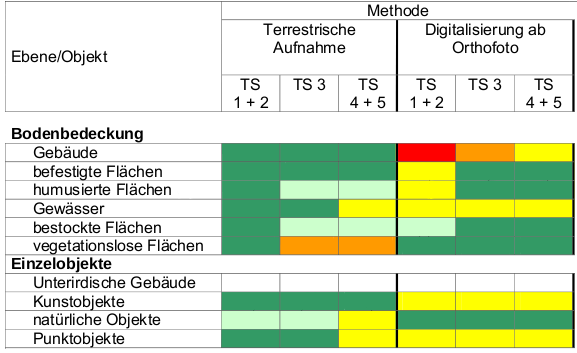
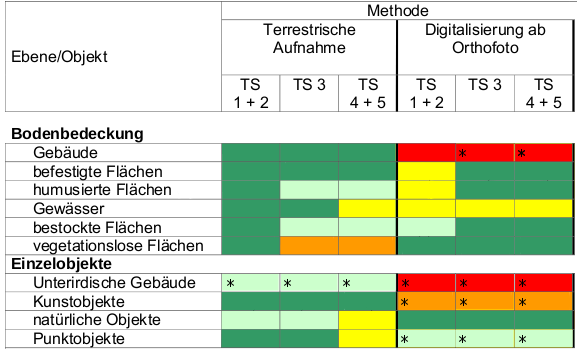
Korrektur gemäss TK

Changed region(s): [[0.3744, 0.779, 0.9983, 0.9037], [0.6863, 0.9348, 0.9983, 0.9972], [0.7799, 0.4051, 0.9983, 0.4674]]

diff --git a/source/bahn.rst b/source/bahn.rst
@@ -36,16 +36,16 @@ Wird eine Lagedifferenz zwischen der AV und dem aktuellen Orthofoto grösser als
 Beispiele:
 
 
-+-----------------------------------------------------------------------+-------------------------------------------------------------------------+
-|.. _bahn_bahn_Lagedifferenz:                                           |.. _bahn_bahn_Lagedifferenz_korr:                                        |
-|                                                                       |                                                                         |
-|.. figure:: _static/bahn_bahn_Lagedifferenz.png                        |.. figure:: _static/bahn_bahn_Lagedifferenz_korr.png                     |
-|   :width: 550px                                                       |   :width: 550px                                                         |
-|   :target: _static/bahn_bahn_Lagedifferenz.png                        |   :target: _static/bahn_bahn_Lagedifferenz_korr.png                     |
-|                                                                       |                                                                         |
-|   ``BB.Bahn`` ist zu korrigieren, weil die Lagedifferenz              |   ``BB.Bahn`` ist  gemäss den rot dargestellten Linien zu               |
-|   grösser als die Toleranz (TS2: 1.0m) ist.                           |   korrigieren. Die Böschung ist als``BB.übrige_humusierte`` zu erfassen.|
-+-----------------------------------------------------------------------+-------------------------------------------------------------------------+
++-----------------------------------------------------------------------+--------------------------------------------------------------------------+
+|.. _bahn_bahn_Lagedifferenz:                                           |.. _bahn_bahn_Lagedifferenz_korr:                                         |
+|                                                                       |                                                                          |
+|.. figure:: _static/bahn_bahn_Lagedifferenz.png                        |.. figure:: _static/bahn_bahn_Lagedifferenz_korr.png                      |
+|   :width: 550px                                                       |   :width: 550px                                                          |
+|   :target: _static/bahn_bahn_Lagedifferenz.png                        |   :target: _static/bahn_bahn_Lagedifferenz_korr.png                      |
+|                                                                       |                                                                          |
+|   ``BB.Bahn`` ist zu korrigieren, weil die Lagedifferenz              |   ``BB.Bahn`` ist  gemäss den rot dargestellten Linien zu                |
+|   grösser als die Toleranz (TS2: 1.0m) ist.                           |   korrigieren. Die Böschung ist als ``BB.übrige_humusierte`` zu erfassen.|
++-----------------------------------------------------------------------+--------------------------------------------------------------------------+
 
                                                                                                                                                                                        
 
@@ -110,7 +110,7 @@ EO.Bahngeleise
 --------------
 Lagedifferenz  
 ^^^^^^^^^^^^^   
-Wird eine Lagedifferenz zwischen der AV und den SBB-Daten detektiert, so ist das Objekt in der AV zu korrigieren. ???? Muss Toleranz (hier ungleich :ref:`ref_Tz`) quantifiziert werden? Z.B. liegt ausserhalb der dickeren blauen Linie (SBB-Datensatz) in QGIS?
+Wird eine Lagedifferenz > 20 cm zwischen der AV und den SBB-Daten detektiert, so ist das Objekt in der AV zu korrigieren.  
 
 Benötigende Layer im QGIS:
 
@@ -157,22 +157,11 @@ Benötigende Layer im QGIS:
 
 EO.Bahngeleise_ueberdeckt
 -------------------------
-Lagedifferenz  
-^^^^^^^^^^^^^ 
-Wird eine Lagedifferenz zwischen der AV und den SBB-Daten detektiert, so ist das Objekt in der AV zu korrigieren. ???? Muss Toleranz (hier ungleich :ref:`ref_Tz`) quantifiziert werden? Z.B. liegt ausserhalb der dickeren blauen Linie (SBB-Datensatz) in QGIS? 
+ 
 
-Benötigende Layer im QGIS:
-
-.. code-block:: none
-
-    Bahn / Lagekontrolle   
-    
-.. note::
-  Als Referenzdaten dienen die Daten der SBB    
-
-Objekt fehlt/löschen/umattribuieren
+Objekt löschen/umattribuieren
 ^^^^^^^^^^^^^^^^^^^^^^^^^^^^^^^^^^^
-Fehlende Objekte sind von den SBB-Daten zu übernehmen und nicht mehr vorhandene Bahngeleise sind zu löschen. Bahngeleise nicht im Tunnel sind als ``EO.Bahngeleise`` zu attribuieren.
+Die Einzelobjektart ``EO.Bahngeleise_ueberdeckt`` wird nicht mehr geführt. Vorhandene Objekte sind zu löschen oder als ``EO.Bahngeleise`` zu attribuieren.
 
 Benötigende Layer im QGIS:
 
@@ -180,16 +169,5 @@ Benötigende Layer im QGIS:
 
     Bahn / Lagekontrolle   
 
-Darstellung nicht nach Richtlinie  
-^^^^^^^^^^^^^^^^^^^^^^^^^^^^^^^^^     
-``EO.Bahngeleise`` ist ein Linienelement.
-
-Benötigende Layer im QGIS:
-
-.. code-block:: none
-
-    Bahn / Lagekontrolle   
-
-|
 
                                                                     

diff --git a/source/strasse.rst b/source/strasse.rst
@@ -32,7 +32,7 @@ BB.Strasse_Weg
 Lagedifferenz  
 ^^^^^^^^^^^^^                        
                          
-Wird eine Lagedifferenz zwischen der AV und dem aktuellen Orthofoto grösser als die Toleranz (siehe :ref:`ref_Tz`) festgestellt, so ist das Objekt in der AV zu korrigieren. Liegt die Differenz innerhalb der Toleranzwerte, wird das Objekt nicht angepasst. Ist die Lagekontrolle mit dem Orthofoto auf Grund von Interpretationsschwierigkeiten (z.B. durch Schatten oder Sichthindernisse wie Bäume) nicht möglich, kann eine Feldkontrolle sinnvoll sein. 
+Wird eine Lagedifferenz zwischen der AV und dem aktuellen Orthofoto grösser als die Toleranz (siehe :ref:`ref_Tz`) festgestellt, so ist das Objekt in der AV zu korrigieren. Liegt die Differenz innerhalb der Toleranzwerte, wird das Objekt nicht angepasst. Ist die Lagekontrolle mit dem Orthofoto auf Grund von Interpretationsschwierigkeiten (z.B. durch Schatten oder Sichthindernisse wie Bäume) nicht möglich, ist eine Feldkontrolle sinnvoll. 
 
 Benötigte Layer in QGIS:
 
@@ -241,7 +241,7 @@ Benötigte Layer in QGIS:
 Darstellung nicht nach Richtlinie    
 ^^^^^^^^^^^^^^^^^^^^^^^^^^^^^^^^^                                        
 
-???? Bei Strasseneinfahrten geht das ``BB.Trottoir`` der ``BB.Strasse_Weg`` vor, wenn sich dieses baulich oder niveaumässig von der Strasse abhebt.  ????? oder wir nicht korrigiert? 
+Bei Strasseneinfahrten geht das ``BB.Trottoir`` der ``BB.Strasse_Weg`` vor, wenn sich dieses baulich oder niveaumässig von der Strasse abhebt. 
 
 
 BB.Verkehrsinsel                                                                
@@ -403,7 +403,7 @@ EO.Lärmschutzwand
 Lagedifferenz  
 ^^^^^^^^^^^^^
 
-????? wirklich machen??????
+Im Rahmen der PNF/Homogenisierung werden **keine** Änderungen vorgenommen.
 
 
 Objekt fehlt
@@ -411,7 +411,7 @@ Objekt fehlt
 Ist auf dem aktuellen Orthofoto eine Lärmschutzwand zu erkennen, die nicht in der AV erfasst ist, muss überprüft werden, ob sie die Aufnahmekriterien gemäss *Handbuch der amtlichen Vermessung Kanton Solothurn* erfüllt. Falls dies der Fall ist, ist die Lärmschutzwand terrestrisch zu erfassen.
                                                                                                    
 .. note::
-   Fehlende (?????????) Lärmschutzwände sind über die laufende Nachführung abzurechnen.   
+   Fehlende Lärmschutzwände sind über die laufende Nachführung abzurechnen.   
    
 Benötigte Layer in QGIS:
 

diff --git a/source/allgemein.rst b/source/allgemein.rst
@@ -174,8 +174,8 @@ Die Mängel sind zu bereinigen. Dazu können die Objekte falls möglich ab dem a
 |   :width: 600px                                                                                  |   :width: 350px                                                    |
 |   :target: _static/Erfassungsmethode.png                                                         |   :target: _static/Legende_Erfassungsmethode.png                   |
 |                                                                                                  |                                                                    |
-|   Beurteilung der Methoden; Quelle: Richtlinie der Arbeitsgruppe KKVA                            |                                                                    |
-|   periodischen Nachführung der amtlichen Vermessung                                              |                                                                    |
+|   Beurteilung der Methoden; Quelle: Richtlinie der Arbeitsgruppe KKVA periodischen Nachführung   |                                                                    |
+|   der amtlichen Vermessung mit kantonalen Anpassungen (Anpassungen sind markiert mit *)          |                                                                    |
 +--------------------------------------------------------------------------------------------------+--------------------------------------------------------------------+ 
 
   
